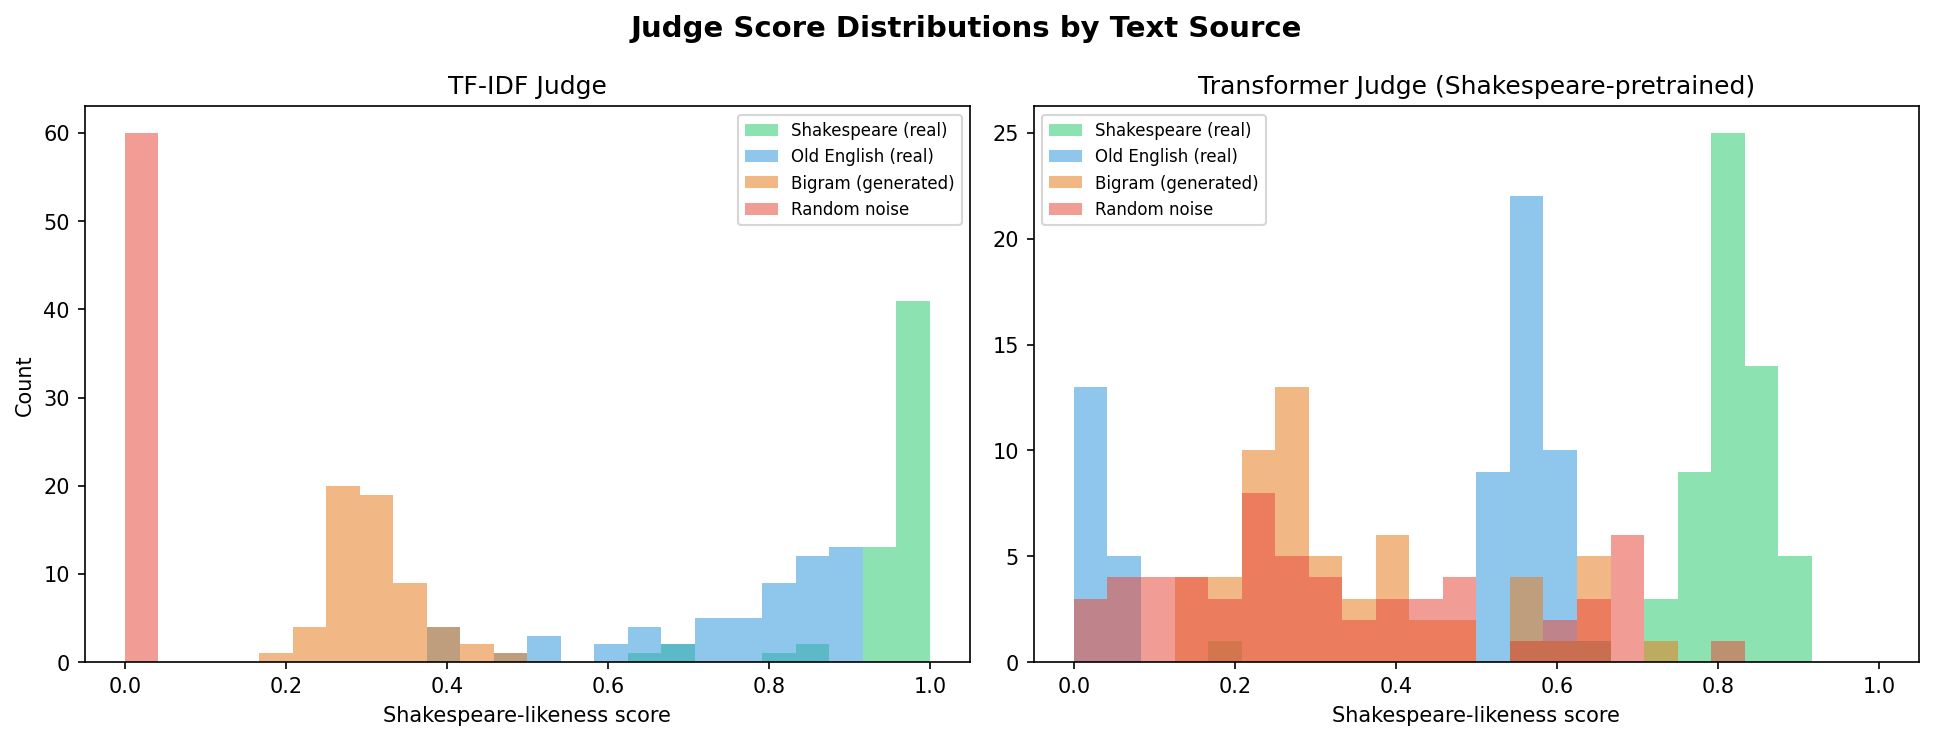
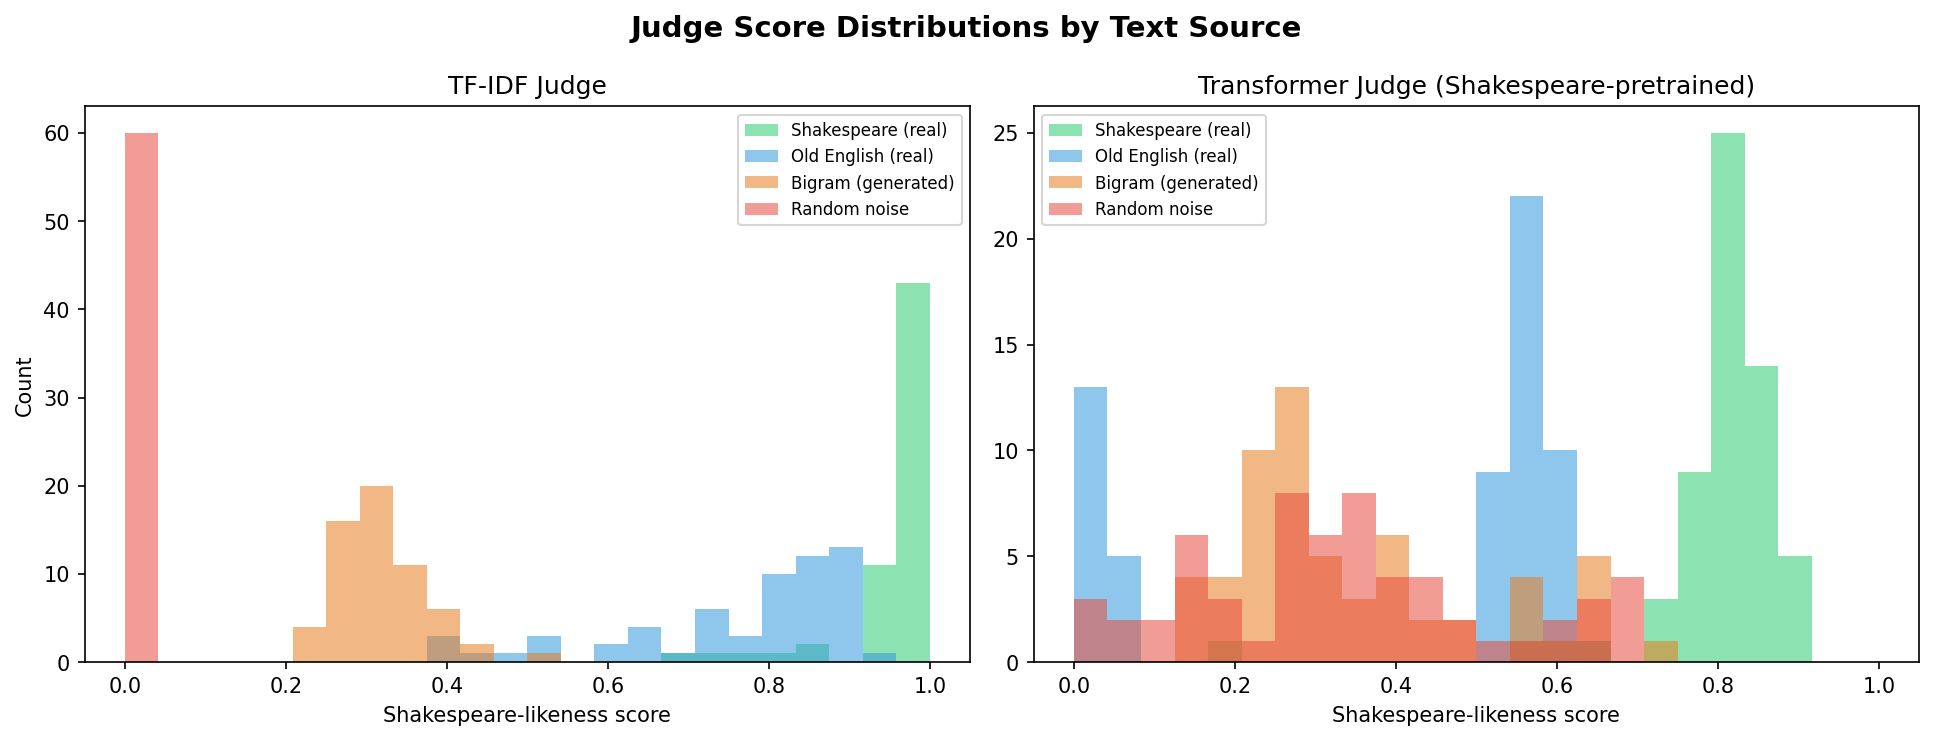
Added README and cleaned repo structure for submission

diff --git a/expirements/visualizations/judge_dist_plot.py b/expirements/visualizations/judge_dist_plot.py
@@ -19,12 +19,12 @@ import matplotlib.pyplot as plt
 import matplotlib.patches as mpatches
 import numpy as np
 
-from classifier.judge import Noise_Shakespeare_Classifier
-from classifier.transformer_judge import TransformerJudge
-from monkeys.TransformerMonkey import TransformerMonkey, CharTokenizer
-from monkeys.bigram import BigramModel
-from monkeys.generator import random_monkey
-from utils.load_datasets import load_old_english_dataset, load_shakespeare_dataset
+from src.classifier.judge import Noise_Shakespeare_Classifier
+from src.classifier.transformer_judge import TransformerJudge
+from src.monkeys.TransformerMonkey import TransformerMonkey, CharTokenizer
+from src.monkeys.bigram import BigramModel
+from src.monkeys.generator import random_monkey
+from src.utils.load_datasets import load_old_english_dataset, load_shakespeare_dataset
 
 # ── config ────────────────────────────────────────────────────────────────────
 JUDGE_CKPT   = "models/transformer_judge.pt"

diff --git a/expirements/evaluation/eval_judges.py b/expirements/evaluation/eval_judges.py
@@ -20,12 +20,12 @@ if str(REPO_ROOT) not in sys.path:
     sys.path.insert(0, str(REPO_ROOT))
 
 
-from classifier.judge import Noise_Shakespeare_Classifier
-from classifier.transformer_judge import TransformerJudge
-from monkeys.bigram import BigramModel
-from monkeys.generator import random_monkey
-from monkeys.TransformerMonkey import TransformerMonkey, CharTokenizer
-from utils.load_datasets import load_old_english_dataset, load_shakespeare_dataset
+from src.classifier.judge import Noise_Shakespeare_Classifier
+from src.classifier.transformer_judge import TransformerJudge
+from src.monkeys.bigram import BigramModel
+from src.monkeys.generator import random_monkey
+from src.monkeys.TransformerMonkey import TransformerMonkey, CharTokenizer
+from src.utils.load_datasets import load_old_english_dataset, load_shakespeare_dataset
 
 
 def _summarize(scores: list[float]) -> tuple[float, float]:

diff --git a/expirements/evaluation/eval_perplexity.py b/expirements/evaluation/eval_perplexity.py
@@ -26,11 +26,11 @@ REPO_ROOT = Path(__file__).resolve().parents[1]
 if str(REPO_ROOT) not in sys.path:
     sys.path.insert(0, str(REPO_ROOT))
 
-from classifier.transformer_judge import TransformerJudge
-from monkeys.bigram import BigramModel
-from monkeys.generator import random_monkey
-from monkeys.TransformerMonkey import CharTokenizer, EOS_TOKEN, TransformerMonkey
-from utils.load_datasets import load_old_english_dataset, load_shakespeare_dataset
+from src.classifier.transformer_judge import TransformerJudge
+from src.monkeys.bigram import BigramModel
+from src.monkeys.generator import random_monkey
+from src.monkeys.TransformerMonkey import CharTokenizer, EOS_TOKEN, TransformerMonkey
+from src.utils.load_datasets import load_old_english_dataset, load_shakespeare_dataset
 
 
 def _device() -> str:

diff --git a/expirements/demos/LoRAMonkeyDemo.py b/expirements/demos/LoRAMonkeyDemo.py
@@ -1,10 +1,10 @@
-from monkeys.TransformerMonkey import TransformerMonkey, CharTokenizer
-from monkeys.LoRAMonkey import LoRAMonkey
+from src.monkeys.TransformerMonkey import TransformerMonkey, CharTokenizer
+from src.monkeys.LoRAMonkey import LoRAMonkey
 from pathlib import Path
 import torch
-from utils.load_datasets import load_shakespeare_dataset
+from src.utils.load_datasets import load_shakespeare_dataset
 from random import randint
-from classifier.transformer_judge import TransformerJudge
+from src.classifier.transformer_judge import TransformerJudge
 
 print("loading models...")
 tokenizer = CharTokenizer.loadTokenizer(Path.cwd() / 'tokenizers' / 'oldEnglishCharTokenizer.pkl')

diff --git a/expirements/model_training/train_transformer_judge.py b/expirements/model_training/train_transformer_judge.py
@@ -25,10 +25,10 @@ if str(REPO_ROOT) not in sys.path:
     sys.path.insert(0, str(REPO_ROOT))
 
 
-from classifier.transformer_judge import TransformerJudge
-from monkeys.TransformerMonkey import CharTokenizer, TransformerMonkey, EOS_TOKEN
-from monkeys.bigram import BigramModel
-from utils.load_datasets import load_old_english_dataset, load_shakespeare_dataset
+from src.classifier.transformer_judge import TransformerJudge
+from src.monkeys.TransformerMonkey import CharTokenizer, TransformerMonkey, EOS_TOKEN
+from src.monkeys.bigram import BigramModel
+from src.utils.load_datasets import load_old_english_dataset, load_shakespeare_dataset
 
 
 @dataclass(frozen=True)

diff --git a/expirements/baselines/compare_bigram_vs_random.py b/expirements/baselines/compare_bigram_vs_random.py
@@ -16,10 +16,10 @@ REPO_ROOT = os.path.dirname(os.path.dirname(__file__))
 if REPO_ROOT not in sys.path:
     sys.path.insert(0, REPO_ROOT)
 
-from classifier.judge import Noise_Shakespeare_Classifier
-from utils.load_datasets import load_shakespeare_dataset
-from monkeys.bigram import BigramModel
-from monkeys.generator import random_monkey
+from src.classifier.judge import Noise_Shakespeare_Classifier
+from src.utils.load_datasets import load_shakespeare_dataset
+from src.monkeys.bigram import BigramModel
+from src.monkeys.generator import random_monkey
 
 
 def _stats(probs: list[float]) -> dict:

diff --git a/expirements/archive/shakespeare_proba_across_monkeys.py b/expirements/archive/shakespeare_proba_across_monkeys.py
@@ -12,12 +12,12 @@ REPO_ROOT = os.path.dirname(os.path.dirname(__file__))
 if REPO_ROOT not in sys.path:
     sys.path.insert(0, REPO_ROOT)
 
-import classifier.judge
-from monkeys.evolution import *
+import src.classifier.judge
+from src.monkeys.evolution import *
 
 target = "So is it in the music of men's lives. And here have I the daintiness of ear"
 
-sj = classifier.judge.Noise_Shakespeare_Classifier()
+sj = src.classifier.judge.Noise_Shakespeare_Classifier()
 sj.train("noise_dataset/noise.txt")
 
 def evolve2(target, population_size=200, max_generations=1000, mutation_rate=0.02):

diff --git a/expirements/model_training/finetune_on_shakespeare.py b/expirements/model_training/finetune_on_shakespeare.py
@@ -24,9 +24,9 @@ REPO_ROOT = Path(__file__).resolve().parents[1]
 if str(REPO_ROOT) not in sys.path:
     sys.path.insert(0, str(REPO_ROOT))
 
-from classifier.transformer_judge import TransformerJudge
-from monkeys.TransformerMonkey import EOS_TOKEN, TransformerMonkey
-from utils.load_datasets import load_shakespeare_dataset
+from src.classifier.transformer_judge import TransformerJudge
+from src.monkeys.TransformerMonkey import EOS_TOKEN, TransformerMonkey
+from src.utils.load_datasets import load_shakespeare_dataset
 
 
 def _load_judge_ckpt(path: str | Path, device: str):

diff --git a/expirements/model_training/transformer_evolve.py b/expirements/model_training/transformer_evolve.py
@@ -3,11 +3,11 @@
 import random
 import torch
 
-from classifier.judge import Noise_Shakespeare_Classifier
-from monkeys.evolution import evolve, mutate
-from monkeys.transformer_monkey import train_monkey
+from src.classifier.judge import Noise_Shakespeare_Classifier
+from src.monkeys.evolution import evolve, mutate
+from src.monkeys.transformer_monkey import train_monkey
 
-from utils.load_datasets import load_old_english_dataset
+from src.utils.load_datasets import load_old_english_dataset
 
 print("Initializing Judge...")
 judge = Noise_Shakespeare_Classifier()

diff --git a/expirements/baselines/old_english_start_bigram_push.py b/expirements/baselines/old_english_start_bigram_push.py
@@ -26,9 +26,9 @@ REPO_ROOT = os.path.dirname(os.path.dirname(__file__))
 if REPO_ROOT not in sys.path:
     sys.path.insert(0, REPO_ROOT)
 
-from classifier.judge import Noise_Shakespeare_Classifier
-from utils.load_datasets import load_old_english_dataset, load_shakespeare_dataset
-from monkeys.bigram import BigramModel
+from src.classifier.judge import Noise_Shakespeare_Classifier
+from src.utils.load_datasets import load_old_english_dataset, load_shakespeare_dataset
+from src.monkeys.bigram import BigramModel
 
 
 NOISE_FILE = "noise_dataset/noise.txt"

diff --git a/expirements/demos/demo_evolved_monkey.py b/expirements/demos/demo_evolved_monkey.py
@@ -22,8 +22,8 @@ REPO_ROOT = Path(__file__).resolve().parents[1]
 if str(REPO_ROOT) not in sys.path:
     sys.path.insert(0, str(REPO_ROOT))
 
-from classifier.transformer_judge import TransformerJudge
-from monkeys.TransformerMonkey import TransformerMonkey
+from src.classifier.transformer_judge import TransformerJudge
+from src.monkeys.TransformerMonkey import TransformerMonkey
 
 
 def _load_judge_ckpt(path: str | Path, device: str):

diff --git a/expirements/evaluation/judge_performance_on_old_english.py b/expirements/evaluation/judge_performance_on_old_english.py
@@ -1,8 +1,8 @@
 # Authors: Davin Makris
 # Early experiment measuring the effectiveness of tf-idf judge 
 
-from classifier import judge
-from utils.load_datasets import load_old_english_dataset
+from src.classifier import judge
+from src.utils.load_datasets import load_old_english_dataset
 import matplotlib.pyplot as plt
 
 sj = judge.Noise_Shakespeare_Classifier()
